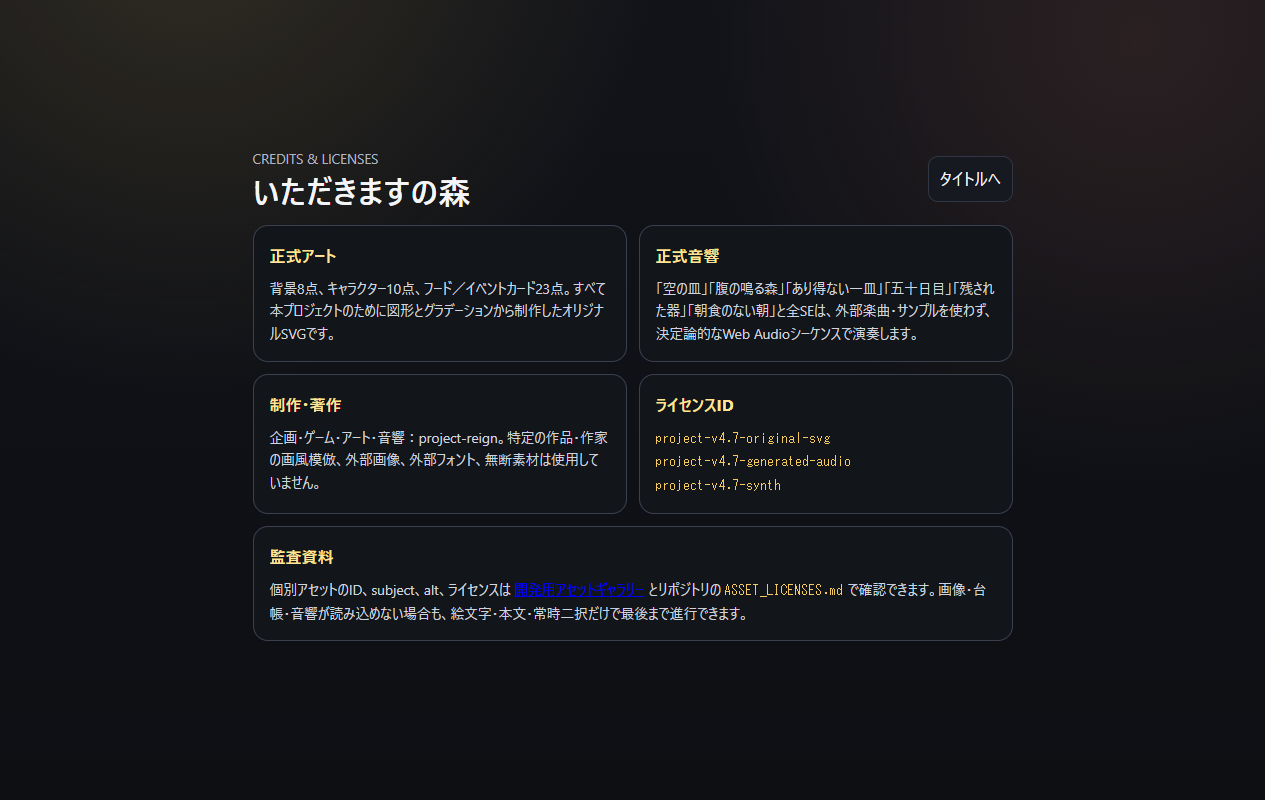
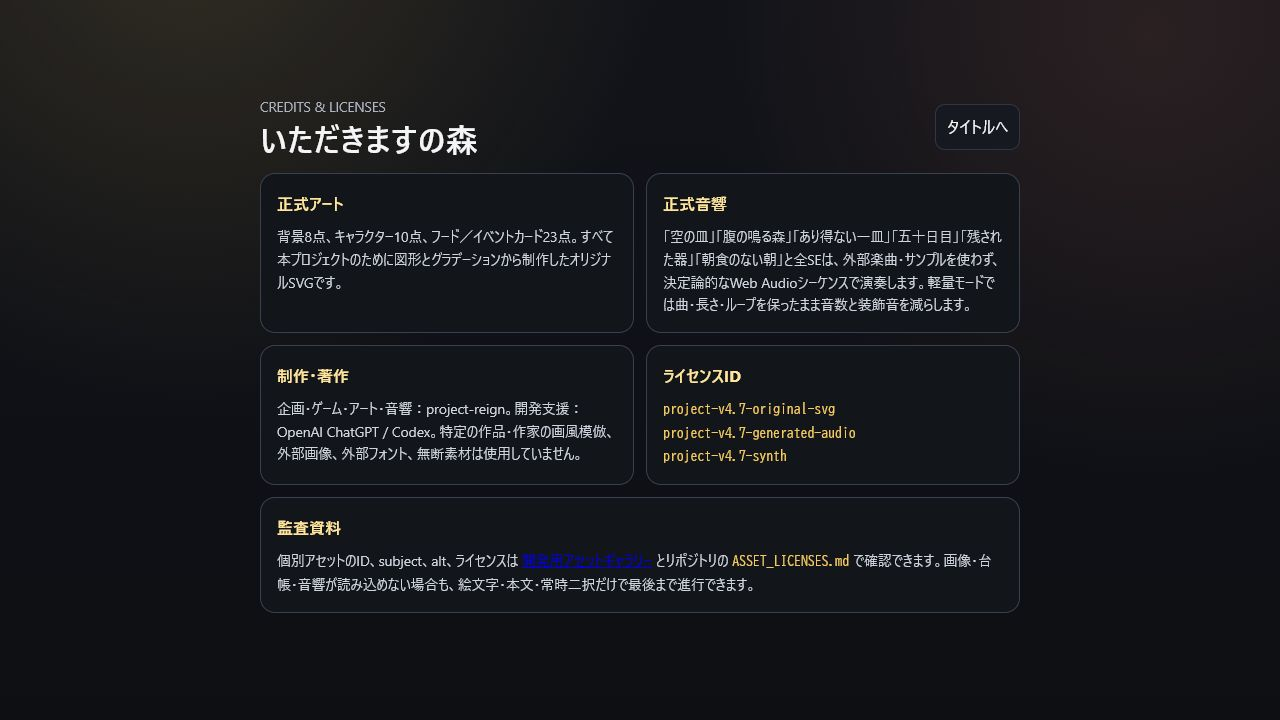
fix: address v4.7 asset review

diff --git a/index.html b/index.html
@@ -378,7 +378,7 @@
       <label class="setting-row"><span><strong>SE音量</strong><br><small class="subtitle">選択・警告・節目の効果音</small></span><span class="setting-control"><input type="range" id="seVolumeSetting" min="0" max="100" step="1"><output id="seVolumeValue">65%</output></span></label>
       <label class="setting-row"><span><strong>SEをミュート</strong><br><small class="subtitle">視覚情報はそのまま維持</small></span><input type="checkbox" id="seMutedSetting"></label>
       <label class="setting-row"><span><strong>触覚フィードバック</strong><br><small class="subtitle">対応端末のみ短く振動</small></span><input type="checkbox" id="hapticsSetting"></label>
-      <label class="setting-row"><span><strong>画像演出を軽くする</strong><br><small class="subtitle">画像を使わず絵文字と本文で表示</small></span><input type="checkbox" id="lightVisualsSetting"></label>
+      <label class="setting-row"><span><strong>軽量モード（画像とBGM編成を簡略化）</strong><br><small class="subtitle">画像を絵文字と本文へ切り替え、BGMの音数を減らします</small></span><input type="checkbox" id="lightVisualsSetting"></label>
     </div>
     <div class="credit-actions"><button class="secondary" id="settingsCreditsBtn">クレジット／アセットライセンス</button></div>
   </section>
@@ -390,8 +390,8 @@
     </div>
     <div class="credit-grid">
       <article class="credit-card"><h2>正式アート</h2><p>背景8点、キャラクター10点、フード／イベントカード23点。すべて本プロジェクトのために図形とグラデーションから制作したオリジナルSVGです。</p></article>
-      <article class="credit-card"><h2>正式音響</h2><p>「空の皿」「腹の鳴る森」「あり得ない一皿」「五十日目」「残された器」「朝食のない朝」と全SEは、外部楽曲・サンプルを使わず、決定論的なWeb Audioシーケンスで演奏します。</p></article>
-      <article class="credit-card"><h2>制作・著作</h2><p>企画・ゲーム・アート・音響：project-reign。特定の作品・作家の画風模倣、外部画像、外部フォント、無断素材は使用していません。</p></article>
+      <article class="credit-card"><h2>正式音響</h2><p>「空の皿」「腹の鳴る森」「あり得ない一皿」「五十日目」「残された器」「朝食のない朝」と全SEは、外部楽曲・サンプルを使わず、決定論的なWeb Audioシーケンスで演奏します。軽量モードでは曲・長さ・ループを保ったまま音数と装飾音を減らします。</p></article>
+      <article class="credit-card"><h2>制作・著作</h2><p>企画・ゲーム・アート・音響：project-reign。開発支援：OpenAI ChatGPT / Codex。特定の作品・作家の画風模倣、外部画像、外部フォント、無断素材は使用していません。</p></article>
       <article class="credit-card"><h2>ライセンスID</h2><p><code>project-v4.7-original-svg</code><br><code>project-v4.7-generated-audio</code><br><code>project-v4.7-synth</code></p></article>
       <article class="credit-card credit-wide"><h2>監査資料</h2><p>個別アセットのID、subject、alt、ライセンスは <a href="./asset-gallery.html">開発用アセットギャラリー</a> とリポジトリの <code>ASSET_LICENSES.md</code> で確認できます。画像・台帳・音響が読み込めない場合も、絵文字・本文・常時二択だけで最後まで進行できます。</p></article>
     </div>
@@ -2212,6 +2212,9 @@
         artKey: event.artKey,
         backgroundKey: event.backgroundKey,
         characterKey: event.characterKey,
+        beanSoil: state.flags && state.flags.beanSoil,
+        beanPossessed: !!(state.flags && state.flags.beanPossessed),
+        beanChild: !!(state.companions && state.companions.beanChild),
         moodKey: event.moodKey,
         token: `survival:${event.eventId}:${state.day}:${state.choiceCount}`
       });
@@ -2251,6 +2254,9 @@
       artKey: scene.artKey,
       backgroundKey: scene.backgroundKey,
       characterKey: scene.characterKey,
+      beanSoil: state.flags && state.flags.beanSoil,
+      beanPossessed: !!(state.flags && state.flags.beanPossessed),
+      beanChild: !!(state.companions && state.companions.beanChild),
       moodKey: scene.moodKey,
       token: `${state.mode}:${state.scene}:${state.day}:${state.choiceCount}`
     });

diff --git a/presentation-engine.js b/presentation-engine.js
@@ -24,6 +24,7 @@
       background: Object.freeze({}), character: Object.freeze({}), art: Object.freeze({}),
       effect: Object.freeze({}), bgm: Object.freeze({}), se: Object.freeze({})
     }),
+    variants: Object.freeze({ beanCharacters: Object.freeze({}) }),
     assignments: Object.freeze({ screens: {}, scenes: {}, survival: {}, categories: {}, endings: {} }),
     hooks: Object.freeze({}),
     actions: Object.freeze({})
@@ -62,6 +63,7 @@
       manifestVersion: String(value.manifestVersion || 'unknown'),
       budgets: isObject(value.budgets) ? { ...value.budgets } : {},
       assets: {},
+      variants: isObject(value.variants) ? value.variants : {},
       assignments: isObject(value.assignments) ? value.assignments : {},
       hooks: isObject(value.hooks) ? value.hooks : {},
       actions: isObject(value.actions) ? value.actions : {}
@@ -93,6 +95,20 @@
       return { key, type, ...entry, url };
     }
 
+    beanCharacterKey(context = {}) {
+      const variants = this.manifest.variants && this.manifest.variants.beanCharacters;
+      if (!isObject(variants)) return null;
+      const soil = String(context.beanSoil || '');
+      const hasBean = context.beanChild === true
+        || context.beanPossessed === true
+        || ['white', 'red', 'gray', 'body'].includes(soil);
+      if (!hasBean) return null;
+      const variant = context.beanPossessed === true || soil === 'body'
+        ? 'body'
+        : (['white', 'red', 'gray'].includes(soil) ? soil : 'child');
+      return typeof variants[variant] === 'string' ? variants[variant] : null;
+    }
+
     assignment(context = {}) {
       const assignments = this.manifest.assignments || {};
       let resolved = {};
@@ -112,6 +128,10 @@
         const table = context.mode === 'survival' ? assignments.survival : assignments.scenes;
         if (table && context.sceneId && table[context.sceneId]) {
           resolved = { ...resolved, ...table[context.sceneId] };
+        }
+        if (!resolved.characterKey) {
+          const beanCharacterKey = this.beanCharacterKey(context);
+          if (beanCharacterKey) resolved.characterKey = beanCharacterKey;
         }
       }
       for (const field of Object.keys(KEY_FIELDS)) {
@@ -427,6 +447,9 @@
         artKey: context.artKey || undefined,
         backgroundKey: context.backgroundKey || undefined,
         characterKey: context.characterKey || undefined,
+        beanSoil: context.beanSoil || undefined,
+        beanPossessed: context.beanPossessed === true,
+        beanChild: context.beanChild === true,
         moodKey: context.moodKey || (warning ? 'mood.warning' : undefined)
       };
       safeContext.statusCue = /(?:毒|中毒)/.test(status)

diff --git a/AGENTS.md b/AGENTS.md
@@ -43,7 +43,7 @@
 - Do not autoplay. Create or resume Web Audio only after a trusted first pointer, touch, or keyboard gesture. Pause audio when the document becomes hidden and resume only when permitted and unmuted.
 - Keep BGM and sound-effect volume and mute controls independent. Normalize absent legacy settings to safe defaults and persist them with haptics and light-visual mode in `tabenai-to-shinu-meta-v1` and transfer JSON.
 - Haptics are best-effort and capability-gated. Never require vibration support and never use vibration, sound, motion, image, or color as the only carrier of information.
-- Respect both the explicit reduced-motion setting and `prefers-reduced-motion`. Light-visual mode must skip presentation images and retain the existing emoji/text experience.
+- Respect both the explicit reduced-motion setting and `prefers-reduced-motion`. Light mode must skip presentation images, retain the existing emoji/text experience, and use the documented reduced-note BGM arrangement without changing track identity, duration, loop behavior, or game state.
 - The v4.7 formal delivery consists of 8 backgrounds, 10 character portraits, and 23 food/event cards under `project-v4.7-original-svg`. Preserve their stable registry IDs, 1600×900／800×1200／800×800 delivery dimensions, semantic alt and subject metadata, and emoji/text fallbacks.
 - The six BGM IDs are deterministic Web Audio compositions implemented without recorded samples, external music, or game PRNG consumption. Keep their published duration and loop contracts stable. The 13 synthesized SE IDs must continue to distinguish poison, fatigue, and injury as well as the existing action and outcome cues.
 - Audio generation, scheduling, policy timing, presentation selection, and gallery enumeration must never use `Math.random()` or consume the saved game PRNG. `Date`, timers, and the AudioContext clock may schedule presentation, but must not influence game results.
@@ -54,7 +54,7 @@
 - IDs and existing event/scene IDs are append-only. Never reuse an ID for different content. If an ID must be retired, keep an alias or compatibility mapping before changing assignments or persisted diagnostics.
 - `assets/manifest.json` is the runtime source of truth for asset paths, MIME types, cache tiers, fallback labels, assignments, hooks, and license IDs. Keep every URL relative and GitHub Pages subpath-safe.
 - Every art asset must declare a stable semantic `subject` and Japanese `subjectLabel`; its alt must name that subject. An assignment with `artKey` must declare the matching `contentSubject`. If no semantically matching card exists, omit `artKey` and keep the emoji, character, and text fallback instead of reusing a contradictory image.
-- Enforce the manifest budgets: total precache no more than 5 MiB, presentation precache no more than 2 MiB, and lazy assets no more than 25 MiB. Count encoded delivery bytes, not source-master sizes. The 41 v4.7 formal SVGs total 105,047 bytes.
+- Enforce the manifest budgets: total precache no more than 5 MiB, presentation precache no more than 2 MiB, and lazy assets no more than 25 MiB. Count encoded delivery bytes, not source-master sizes. The 41 v4.7 formal SVGs total 106,134 bytes.
 - Do not ship source masters, evidence files, or conversion workspaces in `dist/`. Only validated delivery assets and the registry belong in the public build.
 - Every shipped asset must have a matching entry in `ASSET_LICENSES.md` before merge. Record creator/rightsholder, production method, source or tool where known, modification status, and the exact permission state. “No formal license specified” is preferable to inventing a license.
 - Project-created SVGs must contain a non-empty Japanese `<title>` and `<desc>`, use no external resources, embedded fonts, or scripts, and retain the documented dimensions. Formal v4.7 replacements must preserve accessible alternatives.
@@ -106,6 +106,6 @@ npm run simulate:survival
 
 The survival validation suite must retain all pre-v4.5 tests and cover binary choices, refusal rights, deterministic decks, reload locking, cooldown/one-shot/recent suppression, rare rates and pity, every conditional event, all milestones and final boxes, multiple clear paths, save transfer, offline relaunch, and iPhone 390×844 layout. Run at least 10,001 seeds for each required policy, classify clear/death/starve/other, and require zero exceptions, infinite loops, and non-finite or out-of-range state values. Require random clear 50–65%, all-consume clear 45–75%, human-like clear 70–90%, all-refuse clear 0–5%, random death 5–25%, and random starvation 15–40%. Regenerate all policy tables and the three fixed-seed play logs after changing a balance constant.
 
-The presentation validation suite must retain all 46 pre-v4.7 tests and cover stable asset resolution, all four layers and nine hooks, the credits screen and asset gallery, manifest/image/audio/decode failure fallbacks, trusted-gesture audio unlock, all six playable BGM themes and 13 SE triggers, independent BGM/SE settings, loop/non-loop behavior, visibility pause, optional haptics, explicit and system reduced motion, light-visual mode, cache tiers and budgets, fully offline relaunch, explicit updates, iPhone 390×844 and desktop layouts, and zero browser warnings or errors. It must also prove that an initial asset-manifest 503, one precache-image 404, and unavailable or failing audio still activate the core shell, do not cache failed responses, and relaunch offline with text, emoji, and two choices. Asset validation must reject missing files, duplicate or malformed IDs, absolute or escaping paths, wrong MIME/extensions or dimensions, missing license IDs, orphan delivery files, missing SVG accessibility metadata, external SVG resources, fonts or scripts, budget overruns, and art subject/alt mismatches.
+The presentation validation suite must retain all 46 pre-v4.7 tests and cover stable asset resolution, all four layers and nine hooks, the credits screen and asset gallery, manifest/image/audio/decode failure fallbacks, trusted-gesture audio unlock, all six playable BGM themes and 13 SE triggers, independent BGM/SE settings, loop/non-loop behavior, visibility pause, optional haptics, explicit and system reduced motion, light mode with image omission and reduced-note BGM arrangements, cache tiers and budgets, fully offline relaunch, explicit updates, iPhone 390×844 and desktop layouts, and zero browser warnings or errors. It must also prove that an initial asset-manifest 503, one precache-image 404, and unavailable or failing audio still activate the core shell, do not cache failed responses, and relaunch offline with text, emoji, and two choices. Asset validation must reject missing files, duplicate or malformed IDs, absolute or escaping paths, wrong MIME/extensions or dimensions, missing license IDs, orphan delivery files, missing SVG accessibility metadata, external SVG resources, fonts or scripts, budget overruns, and art subject/alt mismatches.
 
 Update `CHANGELOG.md` and README behavior notes for user-visible changes.

diff --git a/ASSET_LICENSES.md b/ASSET_LICENSES.md
@@ -63,9 +63,9 @@ Background subtotal: 8 files, 23,740 bytes.
 | `character.invisible-cleaner` | `assets/characters/invisible-cleaner.svg` | 800×1200 | 2,192 | 透明清掃員 | Original formal v4.7 SVG |
 | `character.jr` | `assets/characters/jr.svg` | 800×1200 | 2,222 | 解毒寄生虫Jr. | Original formal v4.7 SVG |
 | `character.shadow` | `assets/characters/shadow.svg` | 800×1200 | 2,071 | 自我を持つ影 | Original formal v4.7 SVG |
-| `character.tako` | `assets/characters/tako.svg` | 800×1200 | 2,162 | 寄生タコ | Original formal v4.7 SVG |
+| `character.tako` | `assets/characters/tako.svg` | 800×1200 | 2,888 | 八本の触腕と缶帽子を持つ寄生タコ | Original formal v4.7 SVG |
 
-Character subtotal: 10 files, 21,554 bytes.
+Character subtotal: 10 files, 22,280 bytes.
 
 ### Formal food and event cards
 
@@ -79,7 +79,7 @@ Character subtotal: 10 files, 21,554 bytes.
 | `art.empty-soup` | `assets/cards/empty-soup.svg` | 800×800 | 2,563 | 背景を欠いた空のスープ | Original formal v4.7 SVG |
 | `art.four-boxes` | `assets/cards/four-boxes.svg` | 800×800 | 3,004 | 生存者の四つの箱 | Original formal v4.7 SVG |
 | `art.four-dishes` | `assets/cards/four-dishes.svg` | 800×800 | 3,125 | 最後の晩餐の四皿 | Original formal v4.7 SVG |
-| `art.full-heal-drop` | `assets/cards/full-heal-drop.svg` | 800×800 | 2,442 | 全快の琥珀雫 | Original formal v4.7 SVG |
+| `art.full-heal-drop` | `assets/cards/full-heal-drop.svg` | 800×800 | 2,803 | 金色の包み紙にくるまれたドロップ飴「全快ドロップ」 | Original formal v4.7 SVG |
 | `art.golden-apple` | `assets/cards/golden-apple.svg` | 800×800 | 2,619 | 願いを映す黄金の林檎 | Original formal v4.7 SVG |
 | `art.inverted-rain` | `assets/cards/inverted-rain.svg` | 800×800 | 2,547 | 空へ落ちる逆さ雨水 | Original formal v4.7 SVG |
 | `art.ordinary-meal` | `assets/cards/ordinary-meal.svg` | 800×800 | 2,736 | 完全に普通の焼き魚定食 | Original formal v4.7 SVG |
@@ -95,7 +95,7 @@ Character subtotal: 10 files, 21,554 bytes.
 | `art.whisper-can` | `assets/cards/whisper-can.svg` | 800×800 | 2,687 | 吸盤跡のある囁く缶詰 | Original formal v4.7 SVG |
 | `art.white-tablet` | `assets/cards/white-tablet.svg` | 800×800 | 2,578 | 刻印のある白い錠剤 | Original formal v4.7 SVG |
 
-Card subtotal: 23 files, 59,753 bytes. Combined v4.7 formal SVG total: 41 files, 105,047 bytes.
+Card subtotal: 23 files, 60,114 bytes. Combined v4.7 formal SVG total: 41 files, 106,134 bytes.
 
 ## v4.7 deterministic music and synthesized sound
 
@@ -115,6 +115,8 @@ The thirteen SE entries use `project-v4.7-synth`: `se.choice`, `se.warning`, `se
 ## v4.7 credits and asset gallery
 
 `asset-gallery.html`, `asset-gallery.js`, and the in-app credits/license screen use `project-v4.7-gallery`. They display metadata and local registered assets only. They do not download or embed an external font, image, audio file, script, UI library, or analytics service. The gallery is a development and audit surface and is not a new source of game-state data.
+
+The in-app credits retain project-reign as the creator and rightsholder for planning, game, art, and audio, and record “OpenAI ChatGPT / Codex” as development assistance. This process credit does not transfer authorship, ownership, or a media license to OpenAI.
 
 ## v4.6 historical project-created SVG backgrounds
 
@@ -239,8 +241,8 @@ The v4.7 review captures are stored under `docs/screenshots/v4.7/`. Each capture
 | `docs/screenshots/v4.7/four-boxes.png` | SURVIVAL final four boxes | 1265×800 | 292,081 | project-reign application | Repository documentation and release reporting |
 | `docs/screenshots/v4.7/death.png` | Death presentation | 1265×800 | 245,481 | project-reign application | Repository documentation and release reporting |
 | `docs/screenshots/v4.7/escape.png` | Escape presentation | 1265×800 | 282,020 | project-reign application | Repository documentation and release reporting |
-| `docs/screenshots/v4.7/settings.png` | BGM／SE and accessibility settings | 1265×1198 | 218,384 | project-reign application | Repository documentation and release reporting |
-| `docs/screenshots/v4.7/credits.png` | Credits and asset licenses | 1265×800 | 215,158 | project-reign application | Repository documentation and release reporting |
+| `docs/screenshots/v4.7/settings.png` | BGM／SE, accessibility, and labelled light-mode settings | 1265×1198 | 60,995 | project-reign application | Repository documentation and release reporting |
+| `docs/screenshots/v4.7/credits.png` | Credits, light-mode audio note, and development assistance | 1280×720 | 70,877 | project-reign application | Repository documentation and release reporting |
 
 ## Platform-provided emoji
 

diff --git a/CHANGELOG.md b/CHANGELOG.md
@@ -4,7 +4,7 @@
 
 ### Added
 
-- “いただきますの森” formal presentation set: eight 1600×900 backgrounds, ten 800×1200 characters, and twenty-three 800×800 food/event cards. The 41 self-contained SVGs total 105,047 bytes and use the project-authored black, dark-brown, gold, deep-red, and amber art direction.
+- “いただきますの森” formal presentation set: eight 1600×900 backgrounds, ten 800×1200 characters, and twenty-three 800×800 food/event cards. The 41 self-contained SVGs total 106,134 bytes and use the project-authored black, dark-brown, gold, deep-red, and amber art direction.
 - Japanese `<title>` and `<desc>`, semantic alt text, subject metadata, dimensions, MIME, cache tier, and `project-v4.7-original-svg` license records for every formal SVG. No external images, fonts, scripts, third-party artwork, or artist/style imitation are included.
 - Six playable original BGM compositions generated deterministically with Web Audio and no recorded samples: “空の皿” (51.428571 s, loop), “腹の鳴る森” (56.470588 s, loop), “あり得ない一皿” (40 s, loop), “五十日目” (73.846154 s, loop), “残された器” (16 s, non-loop), and “朝食のない朝” (56.25 s, loop).
 - Poison, fatigue, and injury cues, expanding the project-authored runtime Web Audio effect set to thirteen distinct SE triggers.
@@ -17,7 +17,9 @@
 - Replaced the v4.6 image placeholders and empty character/BGM slots with formal project-created art and deterministic Web Audio sequences while preserving stable asset IDs or explicit compatible additions.
 - Added the formal 41-SVG set to best-effort per-file presentation precaching. Core shell install remains independent of the asset manifest and every optional visual/audio asset.
 - Replaced the v4.6 “formal BGM arrives in v4.7” notice with working BGM controls and links to credits/license information.
-- Kept audio locked until the first trusted user gesture, pause/resume on visibility changes, independent BGM/SE volume and mute, reduced motion, light visuals, and capability-gated haptics.
+- Connected the white-, red-, gray-, and body-germinated bean portraits to the live STORY/HARD route state through presentation-only manifest variants, while preserving explicit scene characters such as Tako and Jr.
+- Corrected Tako to eight tentacles and a can hat, aligned Jr.'s alt with its amber medicine bag, and redrew the full-heal drop as a wrapped golden drop candy.
+- Kept audio locked until the first trusted user gesture, pause/resume on visibility changes, independent BGM/SE volume and mute, reduced motion, capability-gated haptics, and an explicitly labelled light mode that omits images and reduces BGM note density without changing the track, duration, or loop.
 
 ### Compatibility
 
@@ -29,10 +31,10 @@
 
 ### Validation
 
-- Retained all 46 pre-v4.7 Playwright tests without deleting or weakening game, save, simulation, PWA, offline, update, failure-injection, and iPhone coverage, and added 13 v4.7 tests for 59 total.
+- Retained all 46 pre-v4.7 Playwright tests without deleting or weakening game, save, simulation, PWA, offline, update, failure-injection, and iPhone coverage, and added 14 v4.7 tests for 60 total.
 - Added exhaustive formal-asset reference, MIME, dimensions, Japanese accessibility metadata, semantic alt/subject, license, orphan-file, external-resource, and encoded-byte-budget validation.
 - Added six-theme playback, loop/non-loop, volume, mute, first-gesture, visibility, offline, and synthesis/decode failure coverage, plus all thirteen SE trigger checks.
-- Added credits, gallery, reduced-motion, light-visual, iPhone 390×844, desktop, manifest 503, visual/audio 404, decode-failure, complete-offline, and zero normal-launch browser warning/error coverage.
+- Added credits, gallery, reduced-motion, bean-route portrait, light-mode image/BGM, iPhone 390×844, desktop, manifest 503, visual/audio 404, decode-failure, complete-offline, and zero normal-launch browser warning/error coverage.
 - Re-ran STORY/HARD canonical digest and all 50,005 SURVIVAL policy simulations to confirm presentation-only changes leave deterministic results unchanged.
 
 ## [4.6.0] - 2026-07-31
